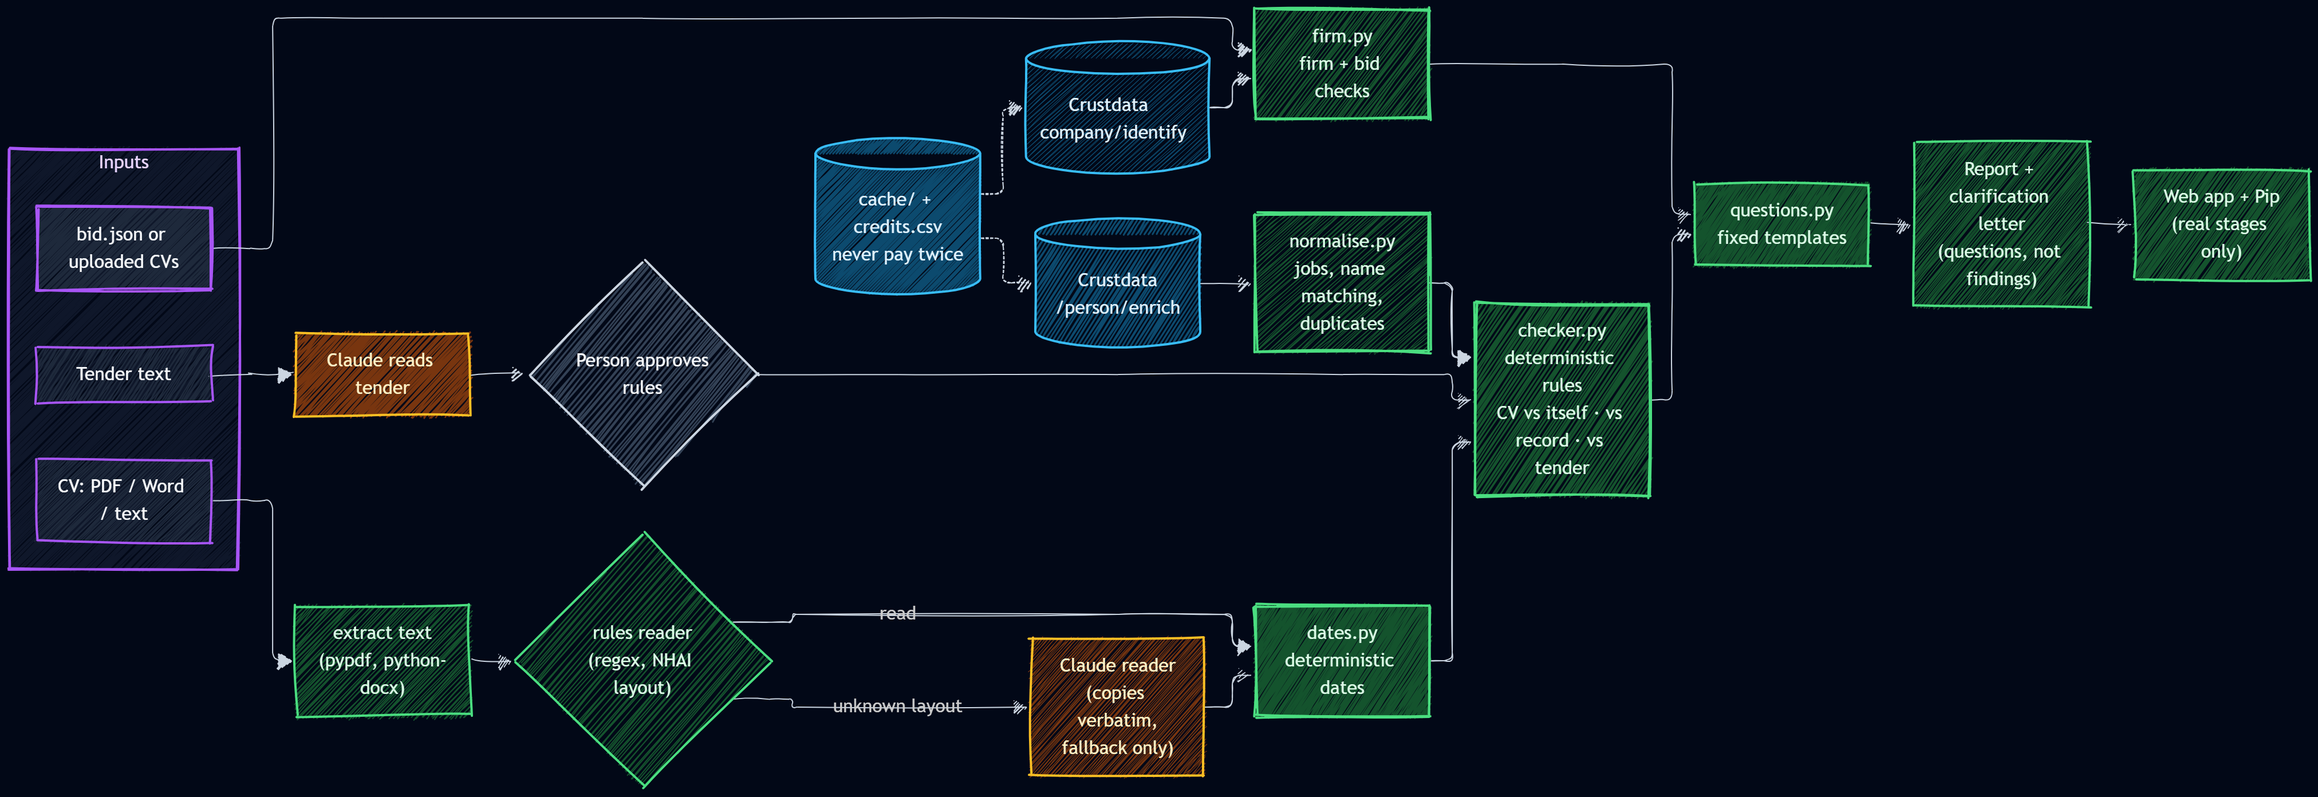
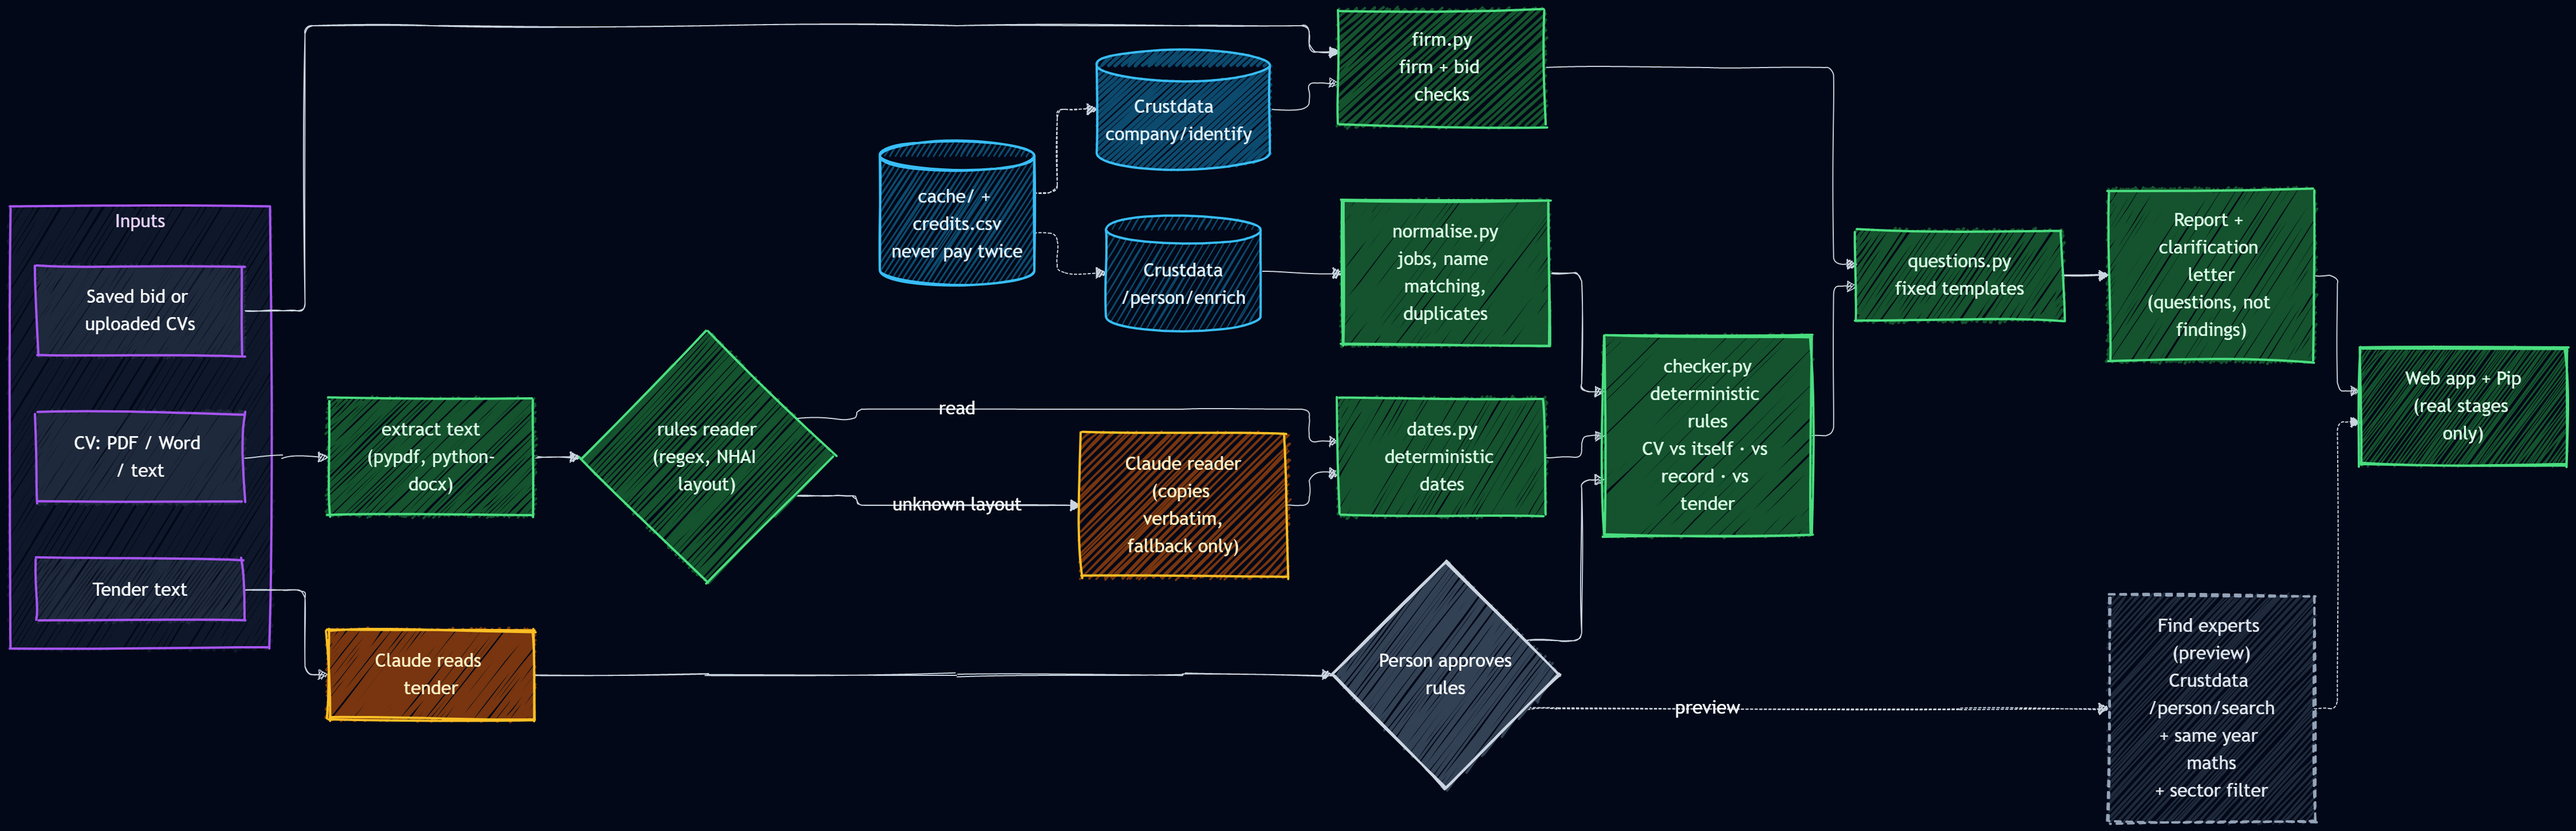
diagram v3: find experts preview branch

diff --git a/README.md b/README.md
@@ -105,7 +105,7 @@ Diagram (also in [docs/diagram.md](docs/diagram.md)):
 
 ![TrueNorth architecture](docs/diagram.png)
 
-Amber = AI (reads text only) · Green = our deterministic code (decides) · Blue = data · Grey = a person approves.
+Amber = AI (reads text only) · Green = our deterministic code (decides) · Blue = data · Grey = a person approves · Dashed = preview.
 
 ```mermaid
 %%{init: {"theme":"dark","themeVariables":{"edgeLabelBackground":"#163A2E","lineColor":"#CBD5E1"}, "flowchart":{"htmlLabels":true}}}%%
@@ -113,7 +113,7 @@ flowchart LR
   subgraph IN["Inputs"]
     T["Tender text"]
     CV["CV: PDF / Word / text"]
-    B["bid.json or uploaded CVs"]
+    B["Saved bid or uploaded CVs"]
   end
   CV --> X["extract text<br/>(pypdf, python-docx)"] --> RR{"rules reader<br/>(regex, NHAI layout)"}
   RR -- "read" --> D["dates.py<br/>deterministic dates"]
@@ -128,6 +128,8 @@ flowchart LR
   CHK --> Q["questions.py<br/>fixed templates"]
   F --> Q
   Q --> R["Report + clarification letter<br/>(questions, not findings)"] --> UI["Web app + Pip<br/>(real stages only)"]
+  AP -. "preview" .-> FE["Find experts (preview)<br/>Crustdata /person/search<br/>+ same year maths<br/>+ sector filter"]
+  FE -.-> UI
   L[("cache/ + credits.csv<br/>never pay twice")] -.-> CD
   L -.-> CI
 
@@ -135,10 +137,12 @@ flowchart LR
   classDef ours fill:#DCFCE7,stroke:#163A2E,color:#163A2E
   classDef data fill:#E0F2FE,stroke:#0369A1,color:#0C4A6E
   classDef human fill:#F1F5F9,stroke:#475569,color:#1E293B
+  classDef preview fill:#1E293B,stroke:#94A3B8,color:#E2E8F0,stroke-dasharray: 5 5
   class LLM,PT ai
   class X,RR,D,N,F,CHK,Q,R,UI ours
   class CD,CI,L data
   class AP human
+  class FE preview
 ```
 
 CVs in the standard NHAI layout are read by rules with no AI; Claude reads only unfamiliar layouts (and tender text), copying text verbatim. Every decision is made by tested, deterministic code.

diff --git a/docs/diagram.md b/docs/diagram.md
@@ -8,7 +8,7 @@ flowchart LR
   subgraph IN["Inputs"]
     T["Tender text"]
     CV["CV: PDF / Word / text"]
-    B["bid.json or uploaded CVs"]
+    B["Saved bid or uploaded CVs"]
   end
   CV --> X["extract text<br/>(pypdf, python-docx)"] --> RR{"rules reader<br/>(regex, NHAI layout)"}
   RR -- "read" --> D["dates.py<br/>deterministic dates"]
@@ -23,6 +23,8 @@ flowchart LR
   CHK --> Q["questions.py<br/>fixed templates"]
   F --> Q
   Q --> R["Report + clarification letter<br/>(questions, not findings)"] --> UI["Web app + Pip<br/>(real stages only)"]
+  AP -. "preview" .-> FE["Find experts (preview)<br/>Crustdata /person/search<br/>+ same year maths<br/>+ sector filter"]
+  FE -.-> UI
   L[("cache/ + credits.csv<br/>never pay twice")] -.-> CD
   L -.-> CI
 
@@ -30,12 +32,14 @@ flowchart LR
   classDef ours fill:#DCFCE7,stroke:#163A2E,color:#163A2E
   classDef data fill:#E0F2FE,stroke:#0369A1,color:#0C4A6E
   classDef human fill:#F1F5F9,stroke:#475569,color:#1E293B
+  classDef preview fill:#1E293B,stroke:#94A3B8,color:#E2E8F0,stroke-dasharray: 5 5
   class LLM,PT ai
   class X,RR,D,N,F,CHK,Q,R,UI ours
   class CD,CI,L data
   class AP human
+  class FE preview
 ```
 
-Amber = AI (reads text only) · Green = our deterministic code (decides) · Blue = data · Grey = a person approves.
+Amber = AI (reads text only) · Green = our deterministic code (decides) · Blue = data · Grey = a person approves · Dashed = preview.
 
 CVs in the standard NHAI layout are read by rules with no AI; Claude reads only unfamiliar layouts, copying text verbatim. Every decision is made by tested, deterministic code.
